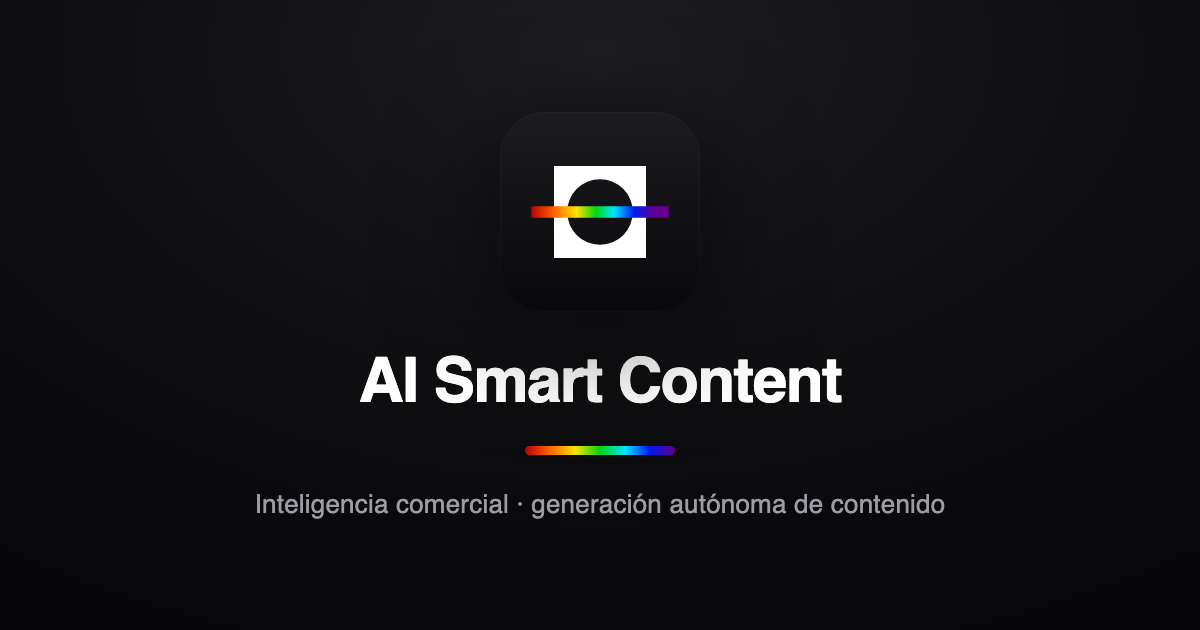
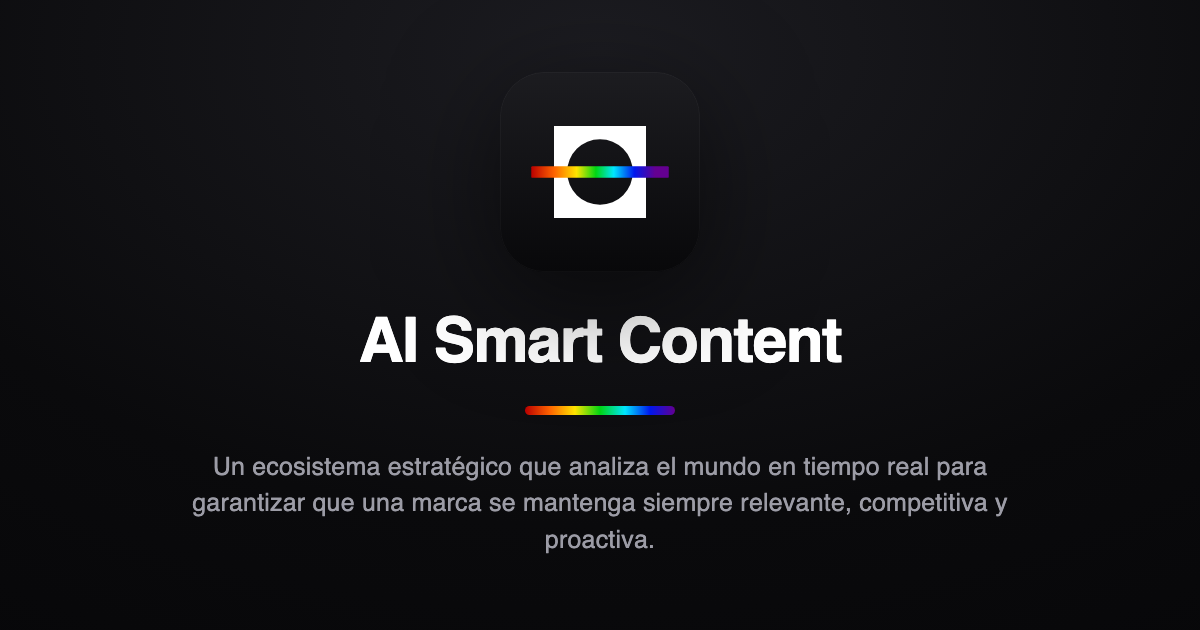
fix(branding): copy estratégico nuevo en og-image + meta descriptions
Tagline/descripción: 'Un ecosistema estratégico que analiza el mundo en
tiempo real para garantizar que una marca se mantenga siempre relevante,
competitiva y proactiva.' aplicada en og-image y en description/og/twitter.

diff --git a/index.html b/index.html
@@ -5,7 +5,7 @@
     <meta name="viewport" content="width=device-width, initial-scale=1.0, maximum-scale=1.0, user-scalable=no, viewport-fit=cover">
     <base href="/">
     <title>AI Smart Content</title>
-    <meta name="description" content="Plataforma de inteligencia comercial y generación autónoma de contenido, diseñada para sincronizar a las empresas con el presente absoluto.">
+    <meta name="description" content="Un ecosistema estratégico que analiza el mundo en tiempo real para garantizar que una marca se mantenga siempre relevante, competitiva y proactiva.">
     <!-- noindex: console.aismartcontent.io es la app; el SEO marketing vive en aismartcontent.io (Framer). -->
     <meta name="robots" content="noindex, nofollow">
     <link rel="canonical" href="https://console.aismartcontent.io/">
@@ -28,17 +28,17 @@
     <meta property="og:locale" content="es_CO">
     <meta property="og:url" content="https://console.aismartcontent.io/">
     <meta property="og:title" content="AI Smart Content">
-    <meta property="og:description" content="Plataforma de inteligencia comercial y generación autónoma de contenido, diseñada para sincronizar a las empresas con el presente absoluto.">
+    <meta property="og:description" content="Un ecosistema estratégico que analiza el mundo en tiempo real para garantizar que una marca se mantenga siempre relevante, competitiva y proactiva.">
     <meta property="og:type" content="website">
     <meta property="og:image" content="https://console.aismartcontent.io/recursos/og-image.png">
     <meta property="og:image:width" content="1200">
     <meta property="og:image:height" content="630">
-    <meta property="og:image:alt" content="AI Smart Content — Inteligencia comercial y generación autónoma de contenido">
+    <meta property="og:image:alt" content="AI Smart Content — ecosistema estratégico que analiza el mundo en tiempo real para mantener tu marca relevante, competitiva y proactiva">
 
     <!-- Twitter Cards -->
     <meta name="twitter:card" content="summary_large_image">
     <meta name="twitter:title" content="AI Smart Content">
-    <meta name="twitter:description" content="Plataforma de inteligencia comercial y generación autónoma de contenido para sincronizar empresas con el presente absoluto.">
+    <meta name="twitter:description" content="Un ecosistema estratégico que analiza el mundo en tiempo real para garantizar que una marca se mantenga siempre relevante, competitiva y proactiva.">
     <meta name="twitter:image" content="https://console.aismartcontent.io/recursos/og-image.png">
 
     <!-- Preconnect — orígenes críticos para primera pintura y primera API call.